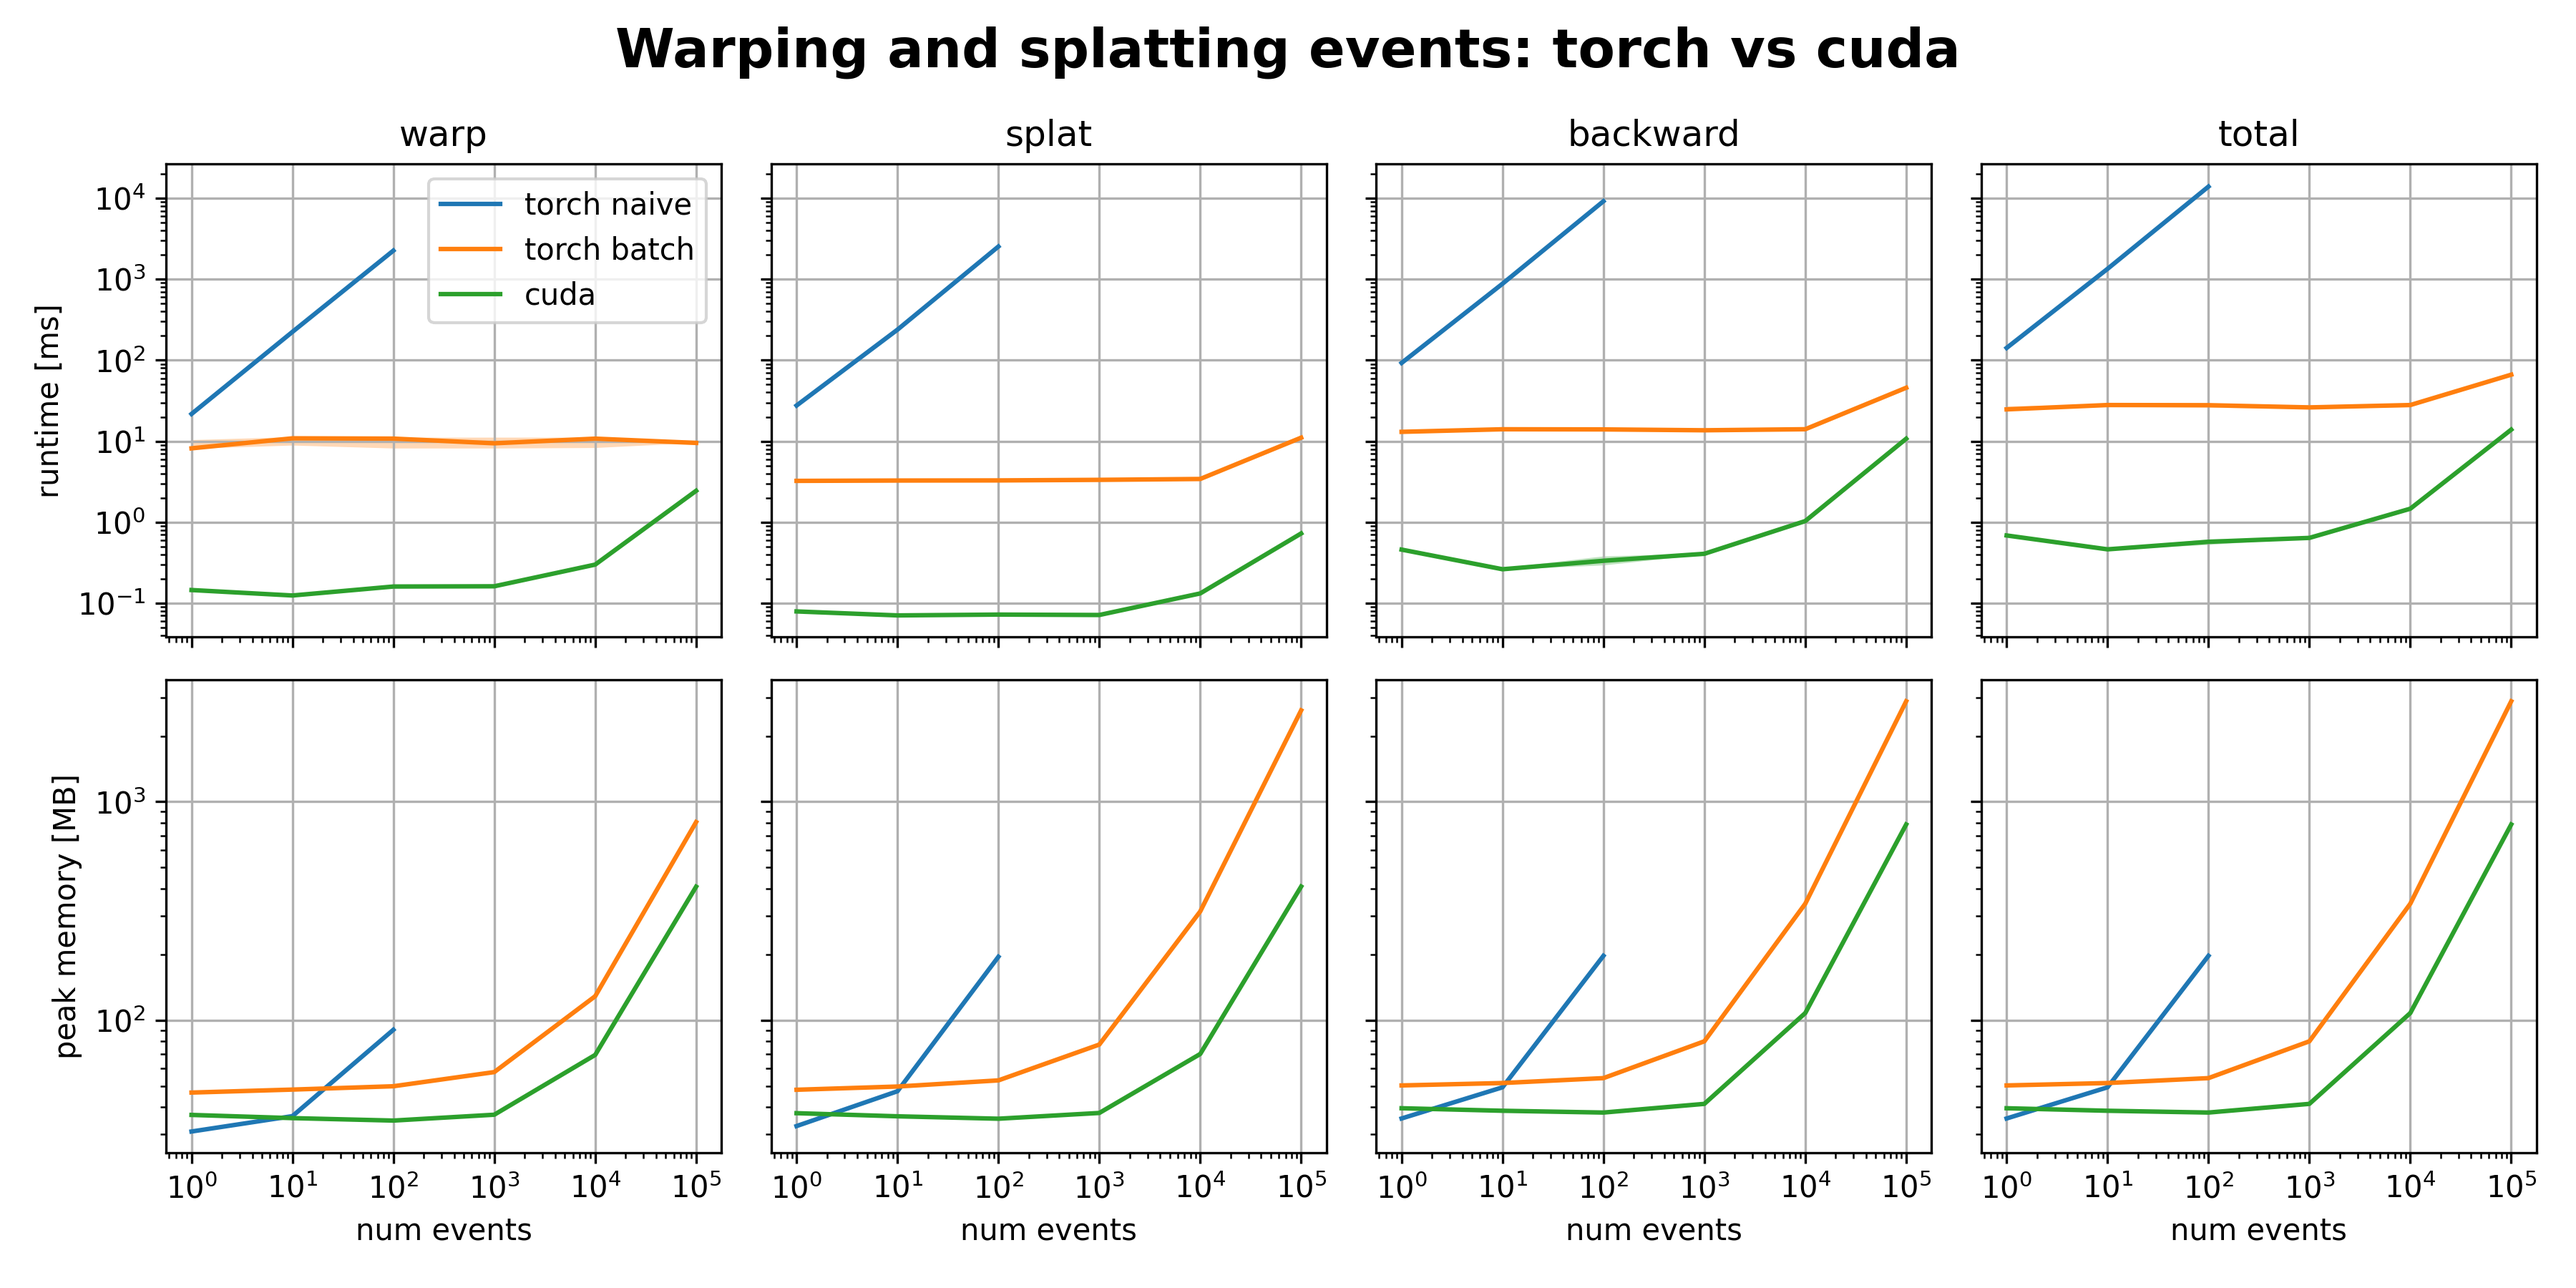
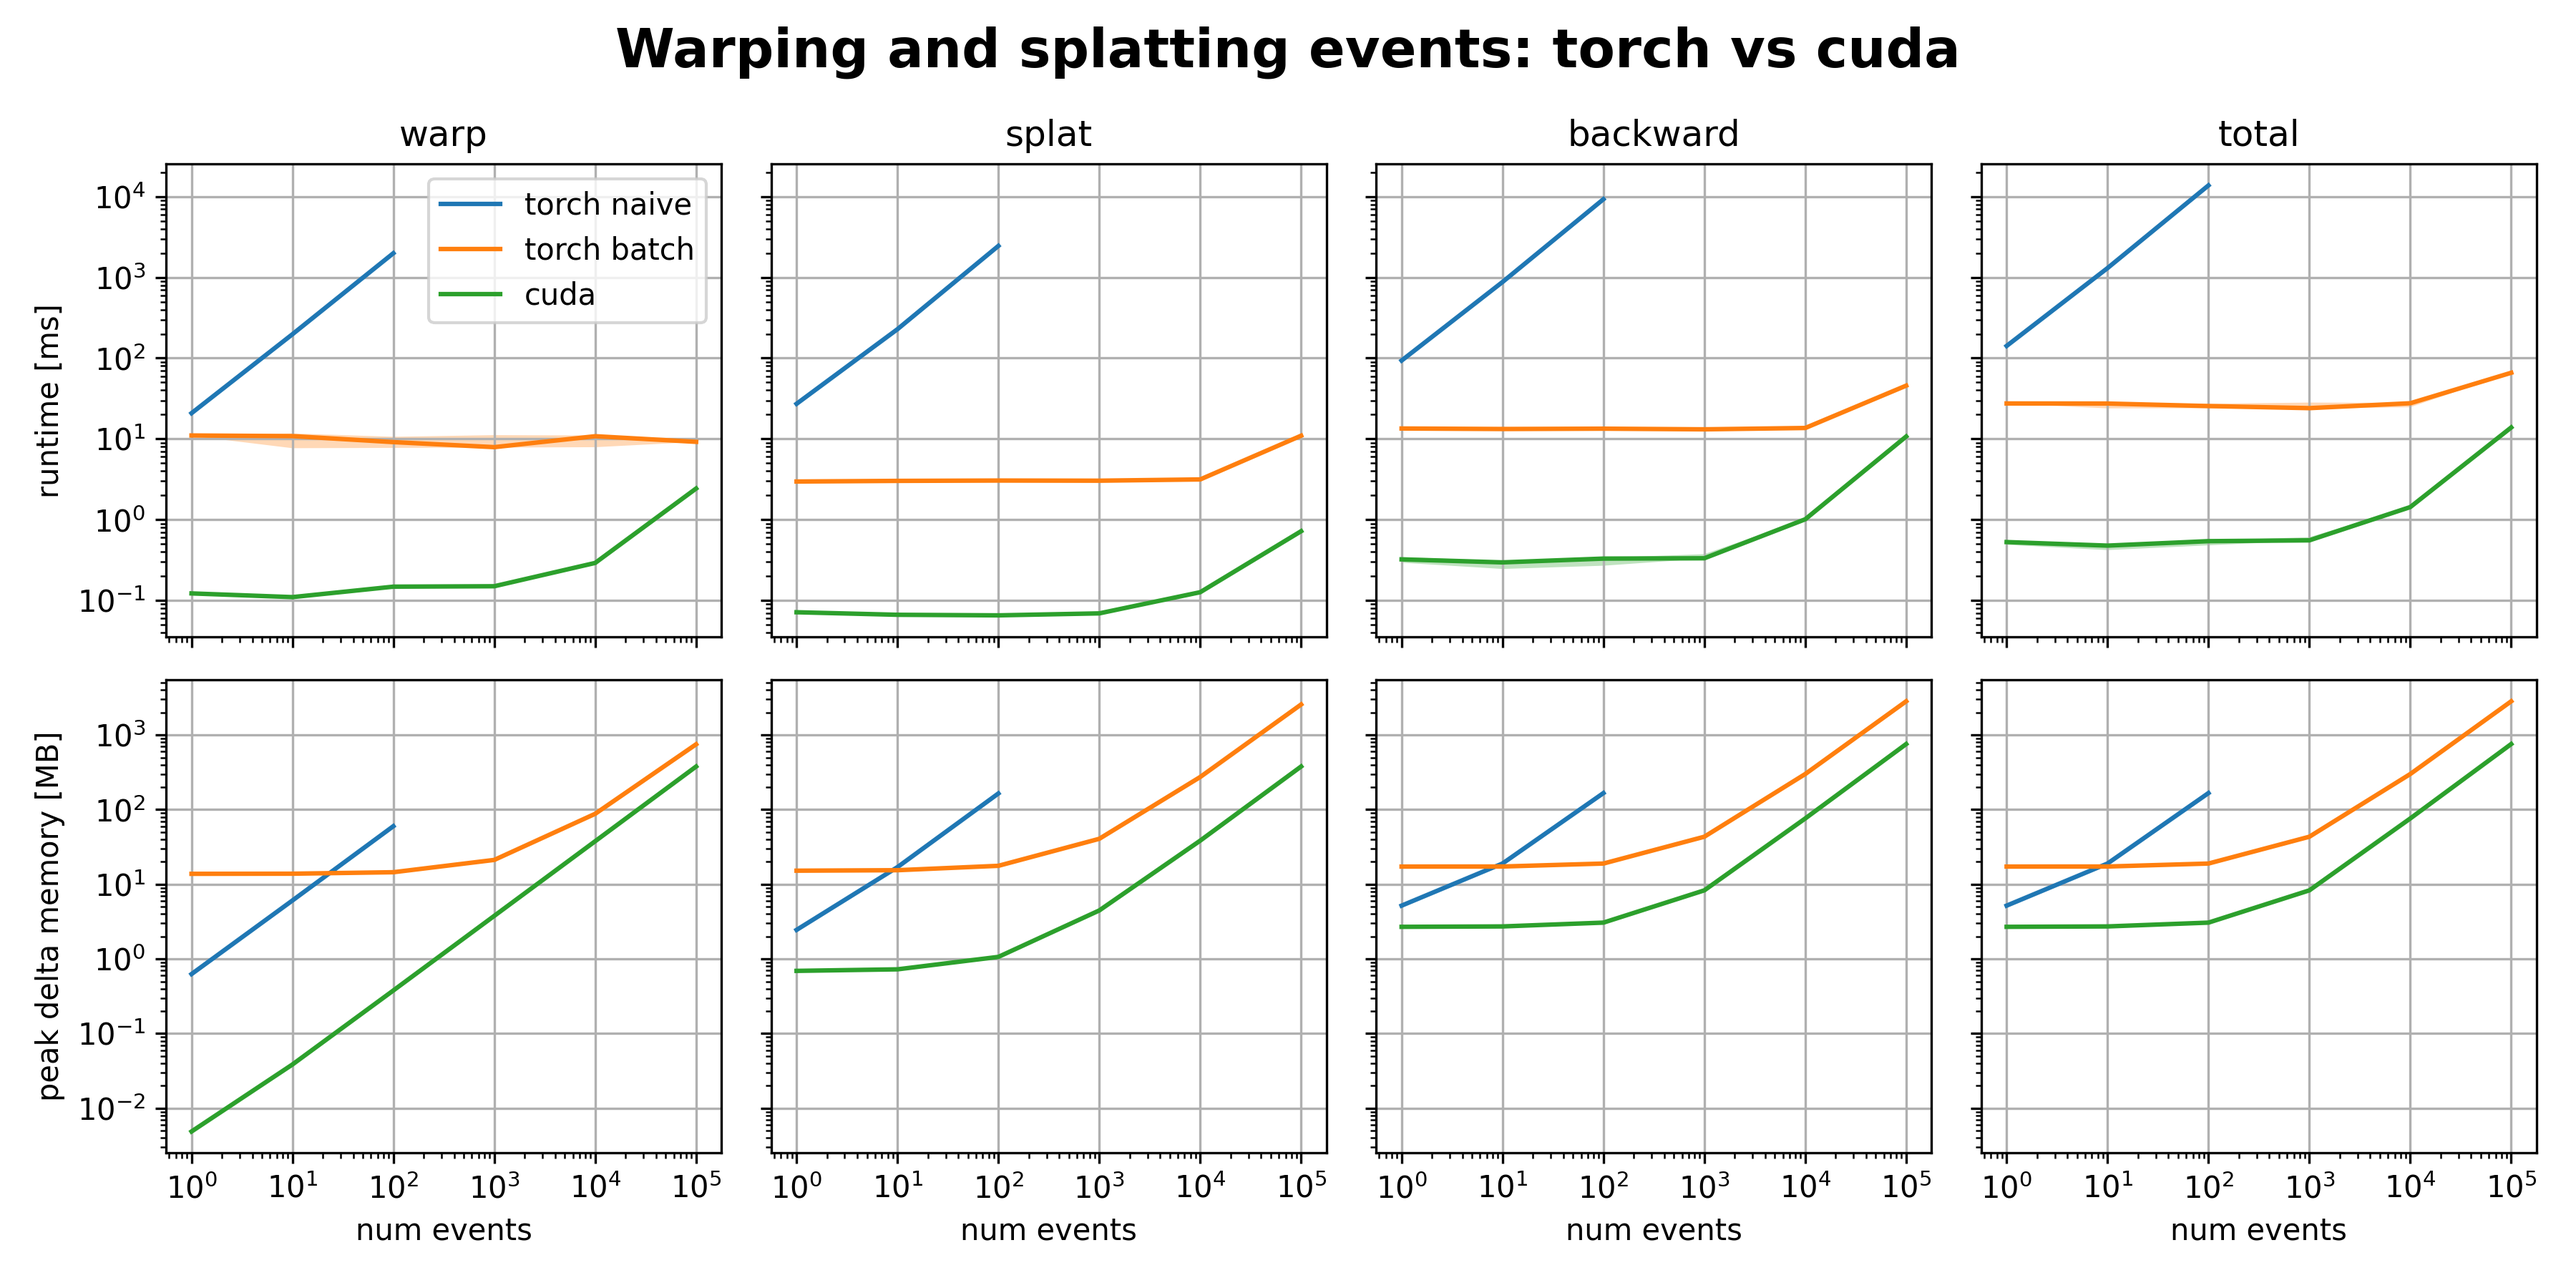
delta memory peak and check for equality (WIP)

diff --git a/benchmark_warp_events.py b/benchmark_warp_events.py
@@ -468,6 +468,11 @@ def trilinear_splat_torch(events, grid_resolution):
     return output
 
 
+"""
+TODO:
+- Why quite large grad differences for large number of events? Could be check for inside? <= vs <?
+- Add combined method for torch batch (we have the code anyway)
+"""
 if __name__ == "__main__":
     # generate events and flows
     torch.manual_seed(0)
@@ -493,6 +498,7 @@ if __name__ == "__main__":
     # naive torch
     def torch_naive_once(events, flows):
         torch.cuda.synchronize()
+        m0 = torch.cuda.memory_allocated()
         torch.cuda.reset_peak_memory_stats()
         t0 = time.time()
         # warp events
@@ -515,19 +521,25 @@ if __name__ == "__main__":
         m3 = torch.cuda.max_memory_allocated()
         torch.cuda.reset_peak_memory_stats()
         t3 = time.time()
+        # store results
+        result_time = DotMap(warp=(t1 - t0) * 1000, splat=(t2 - t1) * 1000, backward=(t3 - t2) * 1000, total=(t3 - t0) * 1000)
+        result_memory = DotMap(warp=m1 - m0, splat=m2 - m0, backward=m3 - m0, total=max(m1 - m0, m2 - m0, m3 - m0))
+        loss_val = loss.detach().clone()
+        flow_grad = flows.grad.clone()
         # set grad to none
         flows.grad = None
-        return DotMap(warp=(t1 - t0) * 1000, splat=(t2 - t1) * 1000, backward=(t3 - t2) * 1000, total=(t3 - t0) * 1000), DotMap(warp=m1, splat=m2, backward=m3, total=max(m1, m2, m3))
+        return result_time, result_memory, loss_val, flow_grad
 
     # batched torch
     def torch_batch_once(events, flows):
-        events = events[..., [2, 1, 0, 4]].permute(1, 0, 3, 2).contiguous()
-        flows = flows[..., [1, 0]].permute(1, 0, 4, 2, 3).contiguous()
+        events_p = events[..., [2, 1, 0, 4]].permute(1, 0, 3, 2).contiguous()
+        flows_p = flows[..., [1, 0]].permute(1, 0, 4, 2, 3).contiguous()
         torch.cuda.synchronize()
+        m0 = torch.cuda.memory_allocated()
         torch.cuda.reset_peak_memory_stats()
         t0 = time.time()
         # warp events
-        warped_events = iterative_3d_warp_torch_batch(events, flows, d)
+        warped_events = iterative_3d_warp_torch_batch(events_p, flows_p, d)
         torch.cuda.synchronize()
         m1 = torch.cuda.max_memory_allocated()
         torch.cuda.reset_peak_memory_stats()
@@ -546,13 +558,20 @@ if __name__ == "__main__":
         m3 = torch.cuda.max_memory_allocated()
         torch.cuda.reset_peak_memory_stats()
         t3 = time.time()
+        # store results
+        result_time = DotMap(warp=(t1 - t0) * 1000, splat=(t2 - t1) * 1000, backward=(t3 - t2) * 1000, total=(t3 - t0) * 1000)
+        result_memory = DotMap(warp=m1 - m0, splat=m2 - m0, backward=m3 - m0, total=max(m1 - m0, m2 - m0, m3 - m0))
+        loss_val = loss.detach().clone()
+        flow_grad = flows.grad.clone()
         # set grad to none
         flows.grad = None
-        return DotMap(warp=(t1 - t0) * 1000, splat=(t2 - t1) * 1000, backward=(t3 - t2) * 1000, total=(t3 - t0) * 1000), DotMap(warp=m1, splat=m2, backward=m3, total=max(m1, m2, m3))
+        del events_p, flows_p
+        return result_time, result_memory, loss_val, flow_grad
 
     # cuda
     def cuda_once(events, flows):
         torch.cuda.synchronize()
+        m0 = torch.cuda.memory_allocated()
         torch.cuda.reset_peak_memory_stats()
         t0 = time.time()
         # warp events
@@ -575,9 +594,14 @@ if __name__ == "__main__":
         m3 = torch.cuda.max_memory_allocated()
         torch.cuda.reset_peak_memory_stats()
         t3 = time.time()
+        # store results
+        result_time = DotMap(warp=(t1 - t0) * 1000, splat=(t2 - t1) * 1000, backward=(t3 - t2) * 1000, total=(t3 - t0) * 1000)
+        result_memory = DotMap(warp=m1 - m0, splat=m2 - m0, backward=m3 - m0, total=max(m1 - m0, m2 - m0, m3 - m0))
+        loss_val = loss.detach().clone()
+        flow_grad = flows.grad.clone()
         # set grad to none
         flows.grad = None
-        return DotMap(warp=(t1 - t0) * 1000, splat=(t2 - t1) * 1000, backward=(t3 - t2) * 1000, total=(t3 - t0) * 1000), DotMap(warp=m1, splat=m2, backward=m3, total=max(m1, m2, m3))
+        return result_time, result_memory, loss_val, flow_grad
 
     # methods
     methods = {
@@ -587,8 +611,7 @@ if __name__ == "__main__":
     }
 
     # benchmark
-    # TODO: check losses and grads equality
-    results_time, results_memory = DotMap(), DotMap()
+    results_time, results_memory, losses, grads = DotMap(), DotMap(), DotMap(), DotMap()
     for name, once in methods.items():
         for n, events, flows in zip(num_events, events_, flows_):
             print(f"Running {name} with {n} events")
@@ -602,12 +625,27 @@ if __name__ == "__main__":
 
             # benchmark
             for i in range(repeats):
-                result_time, result_memory = once(events, flows)
+                result_time, result_memory, loss, grad = once(events, flows)
                 for k, v in result_time.items():
                     results_time[name][k][n] += [v]
                 for k, v in result_memory.items():
                     results_memory[name][k][n] += [v]
-    
+                losses[n] += [loss]
+                grads[n] += [grad]
+
+    # check loss and grad equality
+    for n in num_events:
+        losses_eq, grads_eq = [], []
+        losses_diff, grads_diff = [], []
+        for l0, l1, g0, g1 in zip(losses[n][:-1], losses[n][1:], grads[n][:-1], grads[n][1:]):
+            losses_eq.append(torch.allclose(l0, l1))
+            grads_eq.append(torch.allclose(g0, g1))
+            losses_diff.append(torch.max(torch.abs(l0 - l1)))
+            grads_diff.append(torch.max(torch.abs(g0 - g1)))
+        
+        print(f"Losses all equal for {n} events: {all(losses_eq)}, largest diff: {max(losses_diff)}")
+        print(f"Grads all equal for {n} events: {all(grads_eq)}, largest diff: {max(grads_diff)}")
+
     # plot results
     fig, axs = plt.subplots(2, 4, figsize=(12, 6), sharey="row", sharex="col")
     for name, result in results_time.items():
@@ -636,209 +674,7 @@ if __name__ == "__main__":
             axs[1, i].grid(True)
     axs[0, 0].legend()
     axs[0, 0].set_ylabel("runtime [ms]")
-    axs[1, 0].set_ylabel("peak memory [MB]")
+    axs[1, 0].set_ylabel("peak delta memory [MB]")
     fig.suptitle("Warping and splatting events: torch vs cuda", fontweight="bold", fontsize=18)
     fig.tight_layout()
     plt.savefig("benchmark_warp_events.png", dpi=300)
-
-
-    # print results
-
-    # for n, events, flows in zip(num_events, events_, flows_):
-
-    #     # max 100 events
-    #     if n > 100:
-    #         continue
-
-    #     def once(events, flows):
-    #         torch.cuda.synchronize()
-    #         t0 = time.time()
-    #         # warp events
-    #         warped_events = iterative_3d_warp_torch(events.view(b, -1, 5), flows)
-    #         warped_events = warped_events[..., [0, 1, 2, 4]].view(b, -1, 4)  # remove z_orig
-    #         torch.cuda.synchronize()
-    #         t1 = time.time()
-    #         # splat to images
-    #         splatted = trilinear_splat_torch(warped_events, (d + 1, h, w))
-    #         torch.cuda.synchronize()
-    #         t2 = time.time()
-    #         # backward loss
-    #         loss = splatted.diff(dim=1).abs().sum()
-    #         loss.backward()
-    #         torch.cuda.synchronize()
-    #         t3 = time.time()
-    #         # set grad to none
-    #         flows.grad = None
-    #         return DotMap(warp=(t1 - t0) * 1000, splat=(t2 - t1) * 1000, backward=(t3 - t2) * 1000)
-
-    #     # warmup
-    #     once(events, flows)
-
-    #     # benchmark warp
-    #     for i in range(repeats):
-    #         result = once(events, flows)
-    #         for k, v in result.items():
-    #             results["torch_naive"][n][k] += [v]
-
-    # ## torch batch
-    # for n, events, flows in zip(num_events, events_, flows_):
-
-    #     def once(events, flows):
-    #         torch.cuda.synchronize()
-    #         t0 = time.time()
-    #         # warp events
-    #         warped_events = iterative_3d_warp_torch(events.view(b, -1, 5), flows)
-    #         warped_events = warped_events[..., [0, 1, 2, 4]].view(b, -1, 4)  # remove z_orig
-    #         torch.cuda.synchronize()
-    #         t1 = time.time()
-    #         # splat to images
-    #         splatted = trilinear_splat_torch(warped_events, (d + 1, h, w))
-    #         torch.cuda.synchronize()
-    #         t2 = time.time()
-    #         # backward loss
-    #         loss = splatted.diff(dim=1).abs().sum()
-    #         loss.backward()
-    #         torch.cuda.synchronize()
-    #         t3 = time.time()
-    #         # set grad to none
-    #         flows.grad = None
-    #         return DotMap(warp=(t1 - t0) * 1000, splat=(t2 - t1) * 1000, backward=(t3 - t2) * 1000)
-
-    #     # warmup
-    #     once(events, flows)
-
-    #     # benchmark warp
-    #     for i in range(repeats):
-    #         result = once(events, flows)
-    #         for k, v in result.items():
-    #             results["torch_batch"][n][k] += [v]
-
-    # ## cuda
-    # for n, events, flows in zip(num_events, events_, flows_):
-
-    #     def once(events, flows):
-    #         torch.cuda.synchronize()
-    #         t0 = time.time()
-    #         # warp events
-    #         warped_events = iterative_3d_warp_torch(events.view(b, -1, 5), flows)
-    #         warped_events = warped_events[..., [0, 1, 2, 4]].view(b, -1, 4)  # remove z_orig
-    #         torch.cuda.synchronize()
-    #         t1 = time.time()
-    #         # splat to images
-    #         splatted = trilinear_splat_torch(warped_events, (d + 1, h, w))
-    #         torch.cuda.synchronize()
-    #         t2 = time.time()
-    #         # backward loss
-    #         loss = splatted.diff(dim=1).abs().sum()
-    #         loss.backward()
-    #         torch.cuda.synchronize()
-    #         t3 = time.time()
-    #         # set grad to none
-    #         flows.grad = None
-    #         return DotMap(warp=(t1 - t0) * 1000, splat=(t2 - t1) * 1000, backward=(t3 - t2) * 1000)
-
-    #     # warmup
-    #     once(events, flows)
-
-    #     # benchmark warp
-    #     for i in range(repeats):
-    #         result = once(events, flows)
-    #         for k, v in result.items():
-    #             results["naive_torch"][n][k] += [v]
-
-
-
-
-    # methods = {
-    #     "torch": [iterative_3d_warp_torch, trilinear_splat_torch],
-    #     "torch_batch": [iterative_3d_warp_torch_batch, bilinear_splat_torch_batch],
-    #     "cuda": [iterative_3d_warp_cuda, trilinear_splat_cuda],
-    # }
-    # grads, losses = [], []
-    # seed = torch.randint(0, 1000, (1,)).item()
-    # dtype = torch.float
-    # for name, functions in methods.items():
-    #     torch.manual_seed(seed)
-    #     n = 100
-    #     b, d, h, w = 3, 3, 5, 5
-    #     events = torch.rand((b, d, n, 5), device="cuda", dtype=dtype) * torch.tensor([w - 1, h - 1, 1, 1, 1], device="cuda", dtype=dtype)
-    #     for i in range(d):
-    #         events[:, i, :, 2] += i
-    #         events[:, i, :, 3] = i
-    #     flows = torch.rand((b, d, h, w, 2), device="cuda", dtype=dtype)
-    #     flows.requires_grad = True
-
-    #     # select
-    #     warp_fn, splat_fn = functions
-
-    #     # warmup, then benchmark
-    #     if "batch" not in name:
-    #         warped_events = warp_fn(events.view(b, -1, 5), flows, d, True, 0)
-    #         runtime_warp = []
-    #         for i in range(10):
-    #             torch.cuda.synchronize()
-    #             t0 = time.time()
-    #             warped_events = warp_fn(events.view(b, -1, 5), flows, d, True, 0)
-    #             torch.cuda.synchronize()
-    #             runtime_warp.append(time.time() - t0)
-    #     else:
-    #         events_ = events[..., [2, 1, 0, 4]].permute(1, 0, 3, 2).contiguous()
-    #         flows_ = flows[..., [1, 0]].permute(1, 0, 4, 2, 3).contiguous()
-    #         warped_events = warp_fn(events_, flows_, d, True, 0)
-    #         runtime_warp = []
-    #         for i in range(10):
-    #             torch.cuda.synchronize()
-    #             t0 = time.time()
-    #             warped_events = warp_fn(events_, flows_, d, True, 0)
-    #             torch.cuda.synchronize()
-    #             runtime_warp.append(time.time() - t0)
-        
-    #     print(f"{name} warp: {(sum(runtime_warp) / len(runtime_warp)) * 1000:.3f} ms")
-
-    #     if "batch" not in name:
-    #         warped_events = warped_events[..., [0, 1, 2, 4]].view(b, -1, 4)  # remove z_orig
-
-    #         # warmup, then benchmark
-    #         splatted = splat_fn(warped_events, (d + 1, h, w))
-    #         runtime_splat = []
-    #         for i in range(10):
-    #             torch.cuda.synchronize()
-    #             t0 = time.time()
-    #             splatted = splat_fn(warped_events, (d + 1, h, w))
-    #             torch.cuda.synchronize()
-    #             runtime_splat.append(time.time() - t0)
-    #     else:
-    #         # warmup, then benchmark
-    #         splatted = splat_fn(warped_events, (d, h, w))  # d+1 inside
-    #         runtime_splat = []
-    #         for i in range(10):
-    #             torch.cuda.synchronize()
-    #             t0 = time.time()
-    #             splatted = splat_fn(warped_events, (d, h, w))
-    #             torch.cuda.synchronize()
-    #             runtime_splat.append(time.time() - t0)
-            
-    #         splatted = splatted.squeeze(2).permute(1, 0, 2, 3).contiguous()
-        
-    #     print(f"{name} splat: {(sum(runtime_splat) / len(runtime_splat)) * 1000:.3f} ms")
-
-    #     loss = splatted.diff(dim=1).abs()
-    #     loss_val = loss.sum()
-
-    #     torch.cuda.synchronize()
-    #     t0 = time.time()
-    #     loss_val.backward()
-    #     torch.cuda.synchronize()
-    #     runtime_backward = time.time() - t0
-
-    #     print(f"{name} backward: {runtime_backward * 1000:.3f} ms")
-
-    #     losses.append(loss_val.clone())
-    #     grads.append(flows.grad.clone())
-
-    # for l0, l1, g0, g1 in zip(losses[:-1], losses[1:], grads[:-1], grads[1:]):
-    #     print(f"Losses all equal: {torch.allclose(l0, l1)}, largest diff: {torch.max(torch.abs(l0 - l1))}")
-    #     print(f"Grads all equal: {torch.allclose(g0, g1)}, largest diff: {torch.max(torch.abs(g0 - g1))}")
-
-    # # print(f"Losses all equal: {torch.allclose(*losses)}, largest diff: {torch.max(torch.abs(losses[0] - losses[1]))}")
-    # # print(f"Grads all equal: {torch.allclose(*grads)}, largest diff: {torch.max(torch.abs(grads[0] - grads[1]))}")
